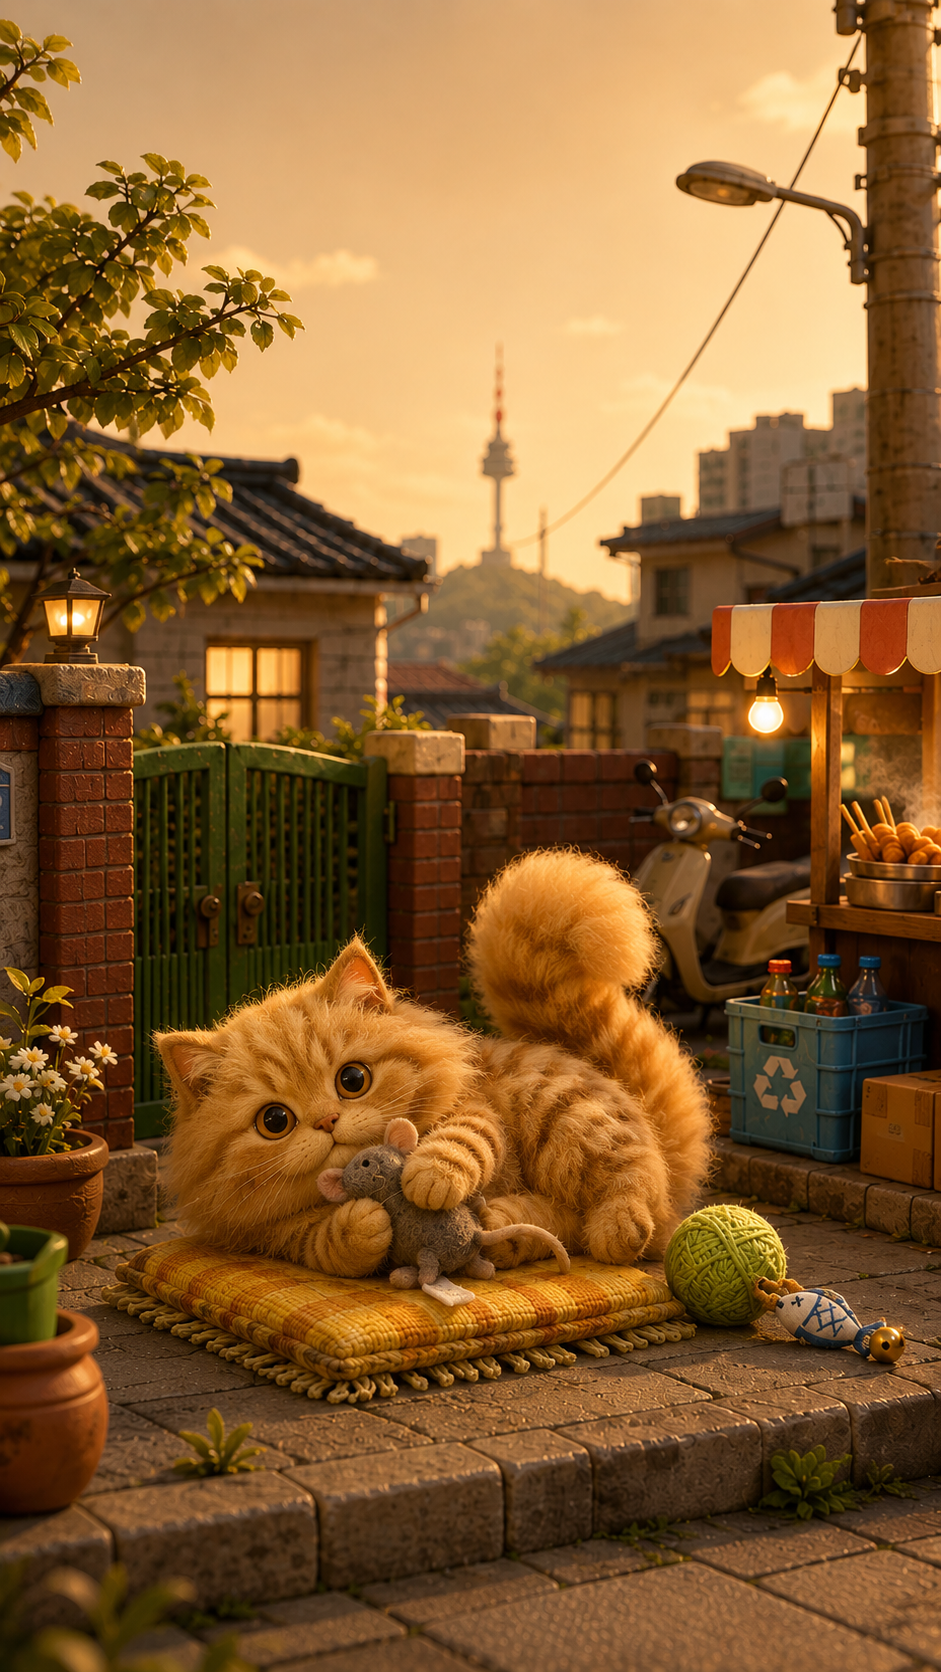
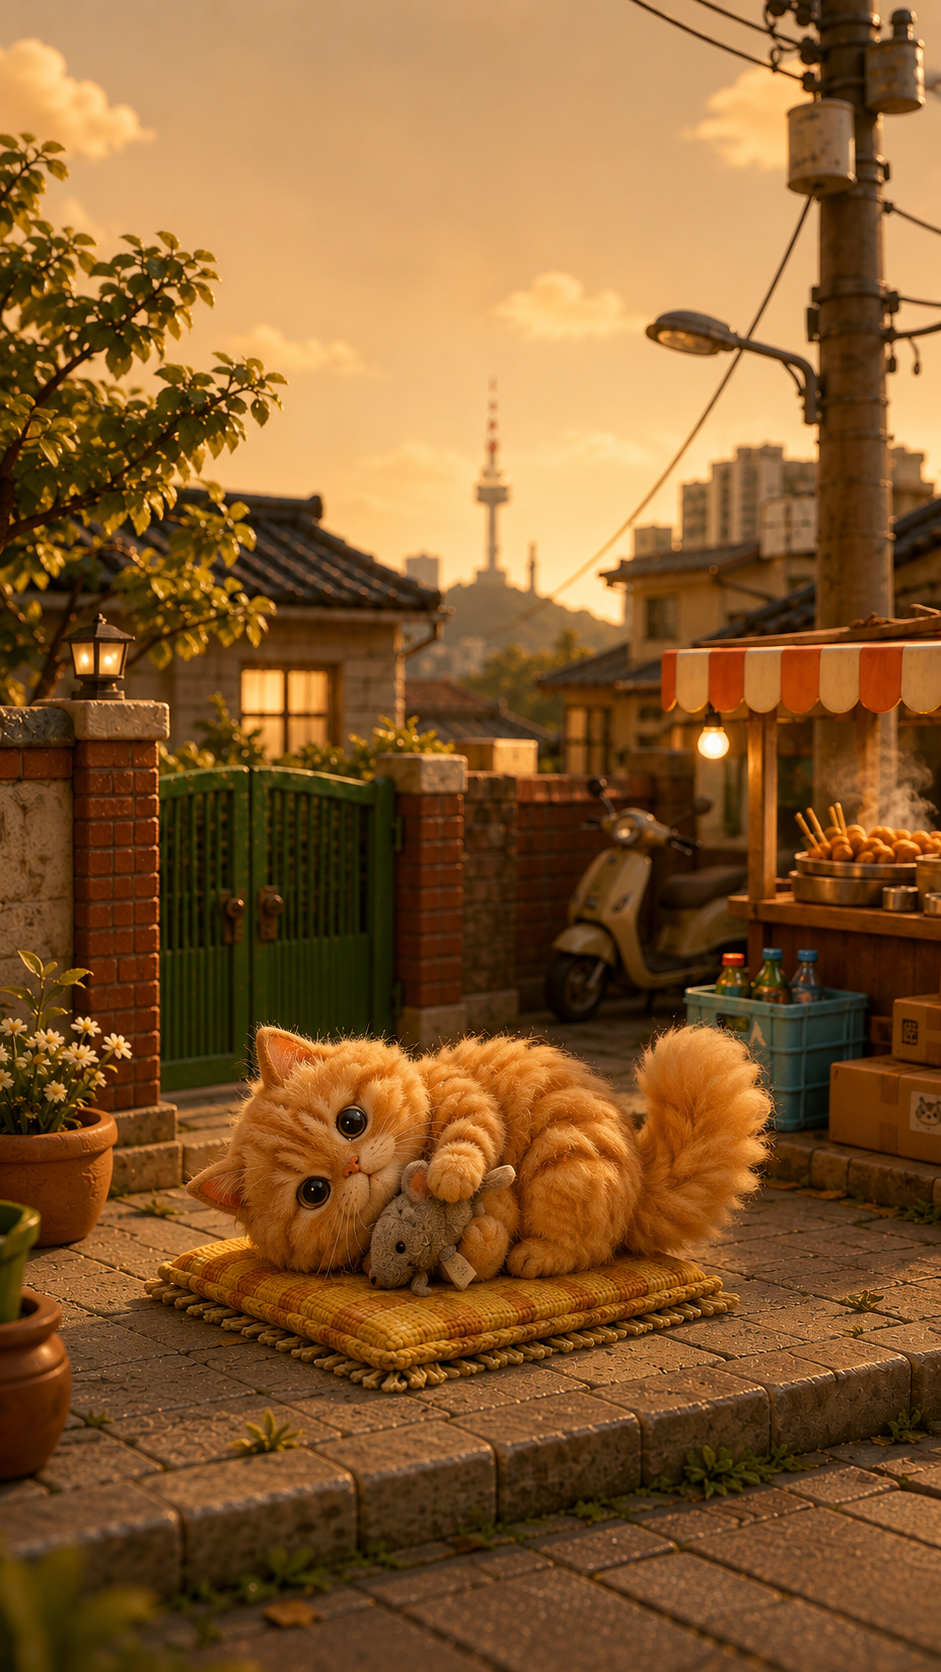
latte2dio: regenerate at the tuned cat scale (cushion 40% width, cat 60% of cushion)
New latte_source from the finalized 2-step prompt: the cushion is anchored small (~40%
frame width) and the cat fills only ~60% of it, so the whole alley reads with breathing
room instead of the cat dominating the frame (cat screen share 14%->8%, closer to the
cherry reference). Cuteness pushed (rounder face, bigger eyes). Rebuilt the lockscreen.

diff --git a/index.html b/index.html
@@ -11,7 +11,7 @@
     <meta name="apple-mobile-web-app-title" content="Cat Lock" />
     <meta name="apple-mobile-web-app-status-bar-style" content="black-translucent" />
     <link rel="manifest" href="./manifest.webmanifest" />
-    <link rel="stylesheet" href="./style.css?v=mesh-49" />
+    <link rel="stylesheet" href="./style.css?v=mesh-50" />
     <title>Cat Depth Lock</title>
     <script type="importmap">
       {
@@ -55,6 +55,6 @@
     </main>
 
     <script src="https://unpkg.com/lucide@0.468.0/dist/umd/lucide.min.js" defer></script>
-    <script type="module" src="./app.js?v=mesh-49"></script>
+    <script type="module" src="./app.js?v=mesh-50"></script>
   </body>
 </html>

diff --git a/prompts/diorama-2step.md b/prompts/diorama-2step.md
@@ -60,14 +60,28 @@ as Image 2 (green gate, brick walls, lantern, potted daisies, striped food stall
 scooter, recycling crate, leafy tree, utility pole, distant rooftops and Namsan tower),
 same palette, lighting and framing.
 
-Balance ~60% Image-1 cat identity + its pose/action, 40% Image-2 chibi craft style.
-Do NOT just recolour Image 2's cat — give it the brief's pose, build and action.
+The cat occupies only about 60% of the cushion, with a generous visible cushion border
+showing around it on all sides — it must NOT fill or overflow the cushion.
+
+Balance ~55% Image-1 cat identity + its pose/action, 45% Image-2 chibi craft style —
+push the CUTENESS: rounder head, bigger rounder eyes, chubbier cheeks, softer chunkier
+chibi proportions and a sweeter expression, while keeping the SAME recognizable cat from
+the brief. Do NOT just recolour Image 2's cat — give it the brief's pose, build and action.
 
 LAYOUT for 3D parallax: the cat is the single foreground hero on the cushion, LOWER-
 CENTER, clear empty margin all around, NOT touching any frame edge. Keep a simple
 contrasting tone right behind the cat's outline so its silhouette reads. Three clear
 depth layers (near cat / midground props with gaps / far sky + tower). Solid matte
 opaque materials only; thin wires/branches only in the far sky plane.
+
+SCALE — anchor on the CUSHION, not the cat (the cat grows when the cushion grows):
+render the woven cushion SMALL, like a single floor cushion seen from a few steps back
+— it occupies only about 40% of the frame WIDTH and sits low, with visible paving all
+around it (paving on both sides and in front). The cat is a small chibi figurine
+resting ON that small cushion, so it naturally stays small too. Match the small
+cushion-and-cat size of Image 2 exactly: in Image 2 the cushion is a small patch in the
+lower third with the whole alley (gate, walls, stall, tree, sky, tower) clearly visible
+around and above it. Do NOT enlarge the cushion or let the cushion+cat fill the frame.
 
 No text, no clock, no UI, no watermark, no people. Output ONE vertical 9:16 image.
 ```
